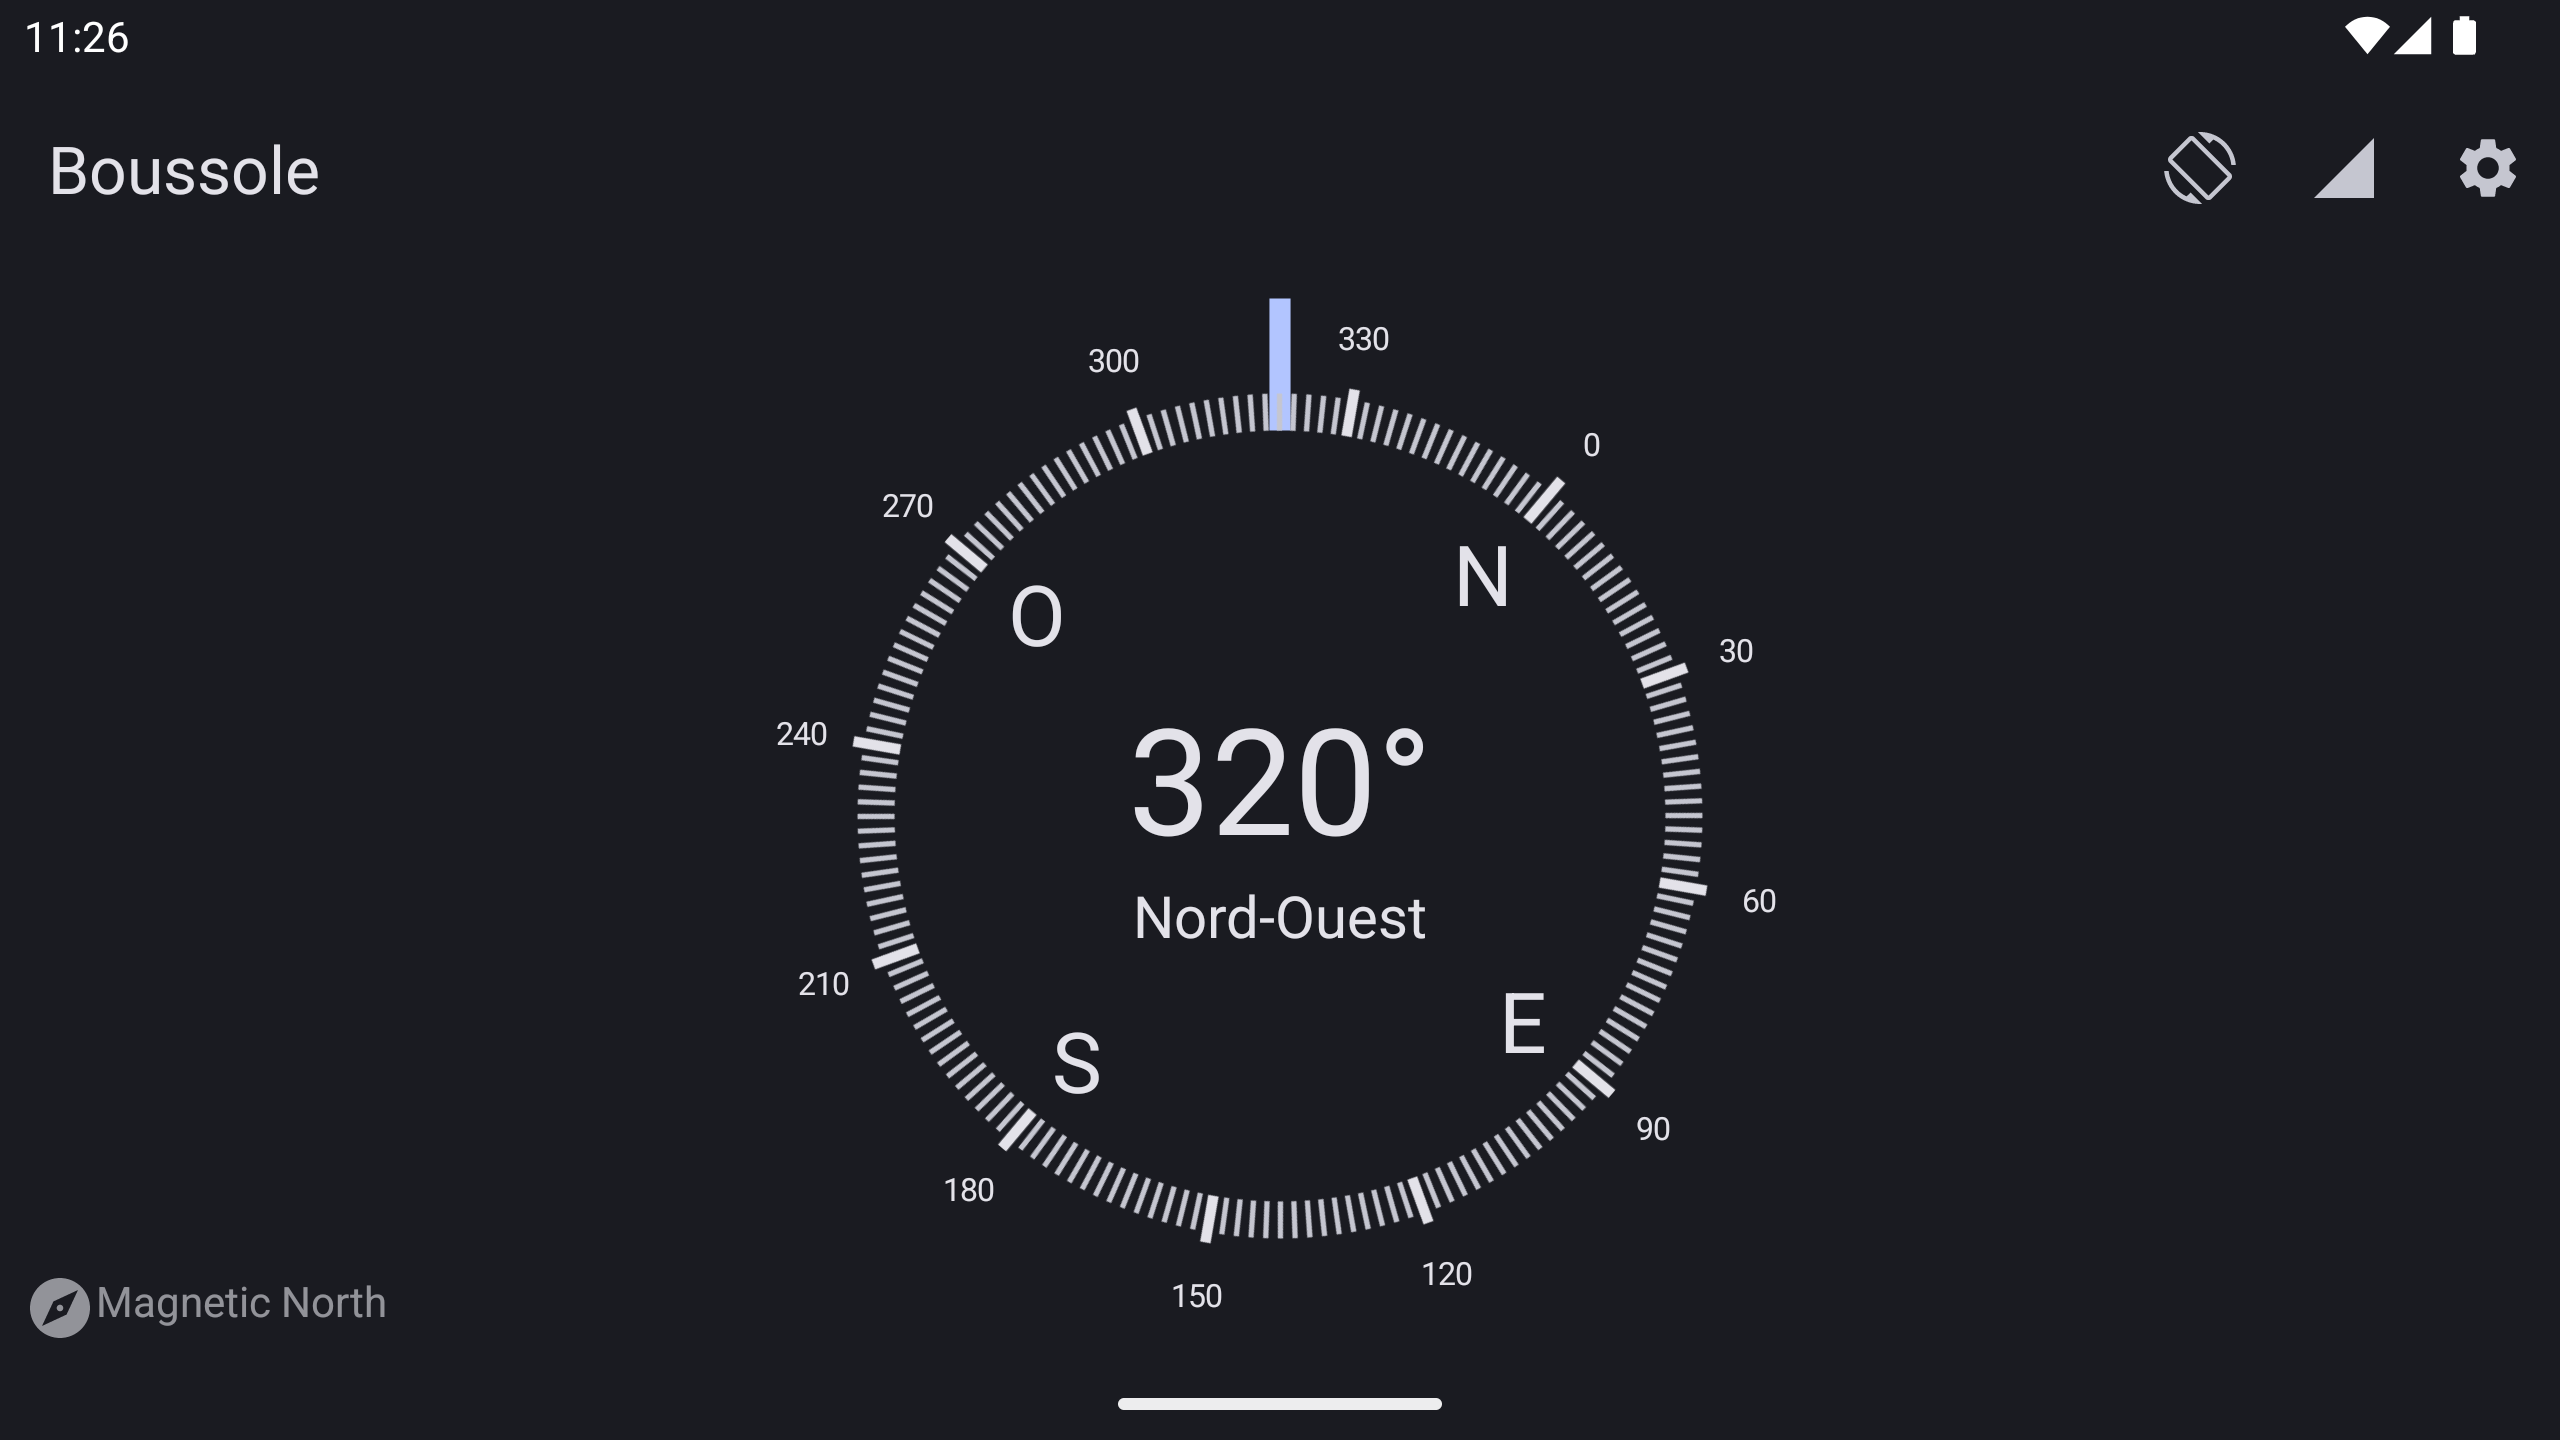
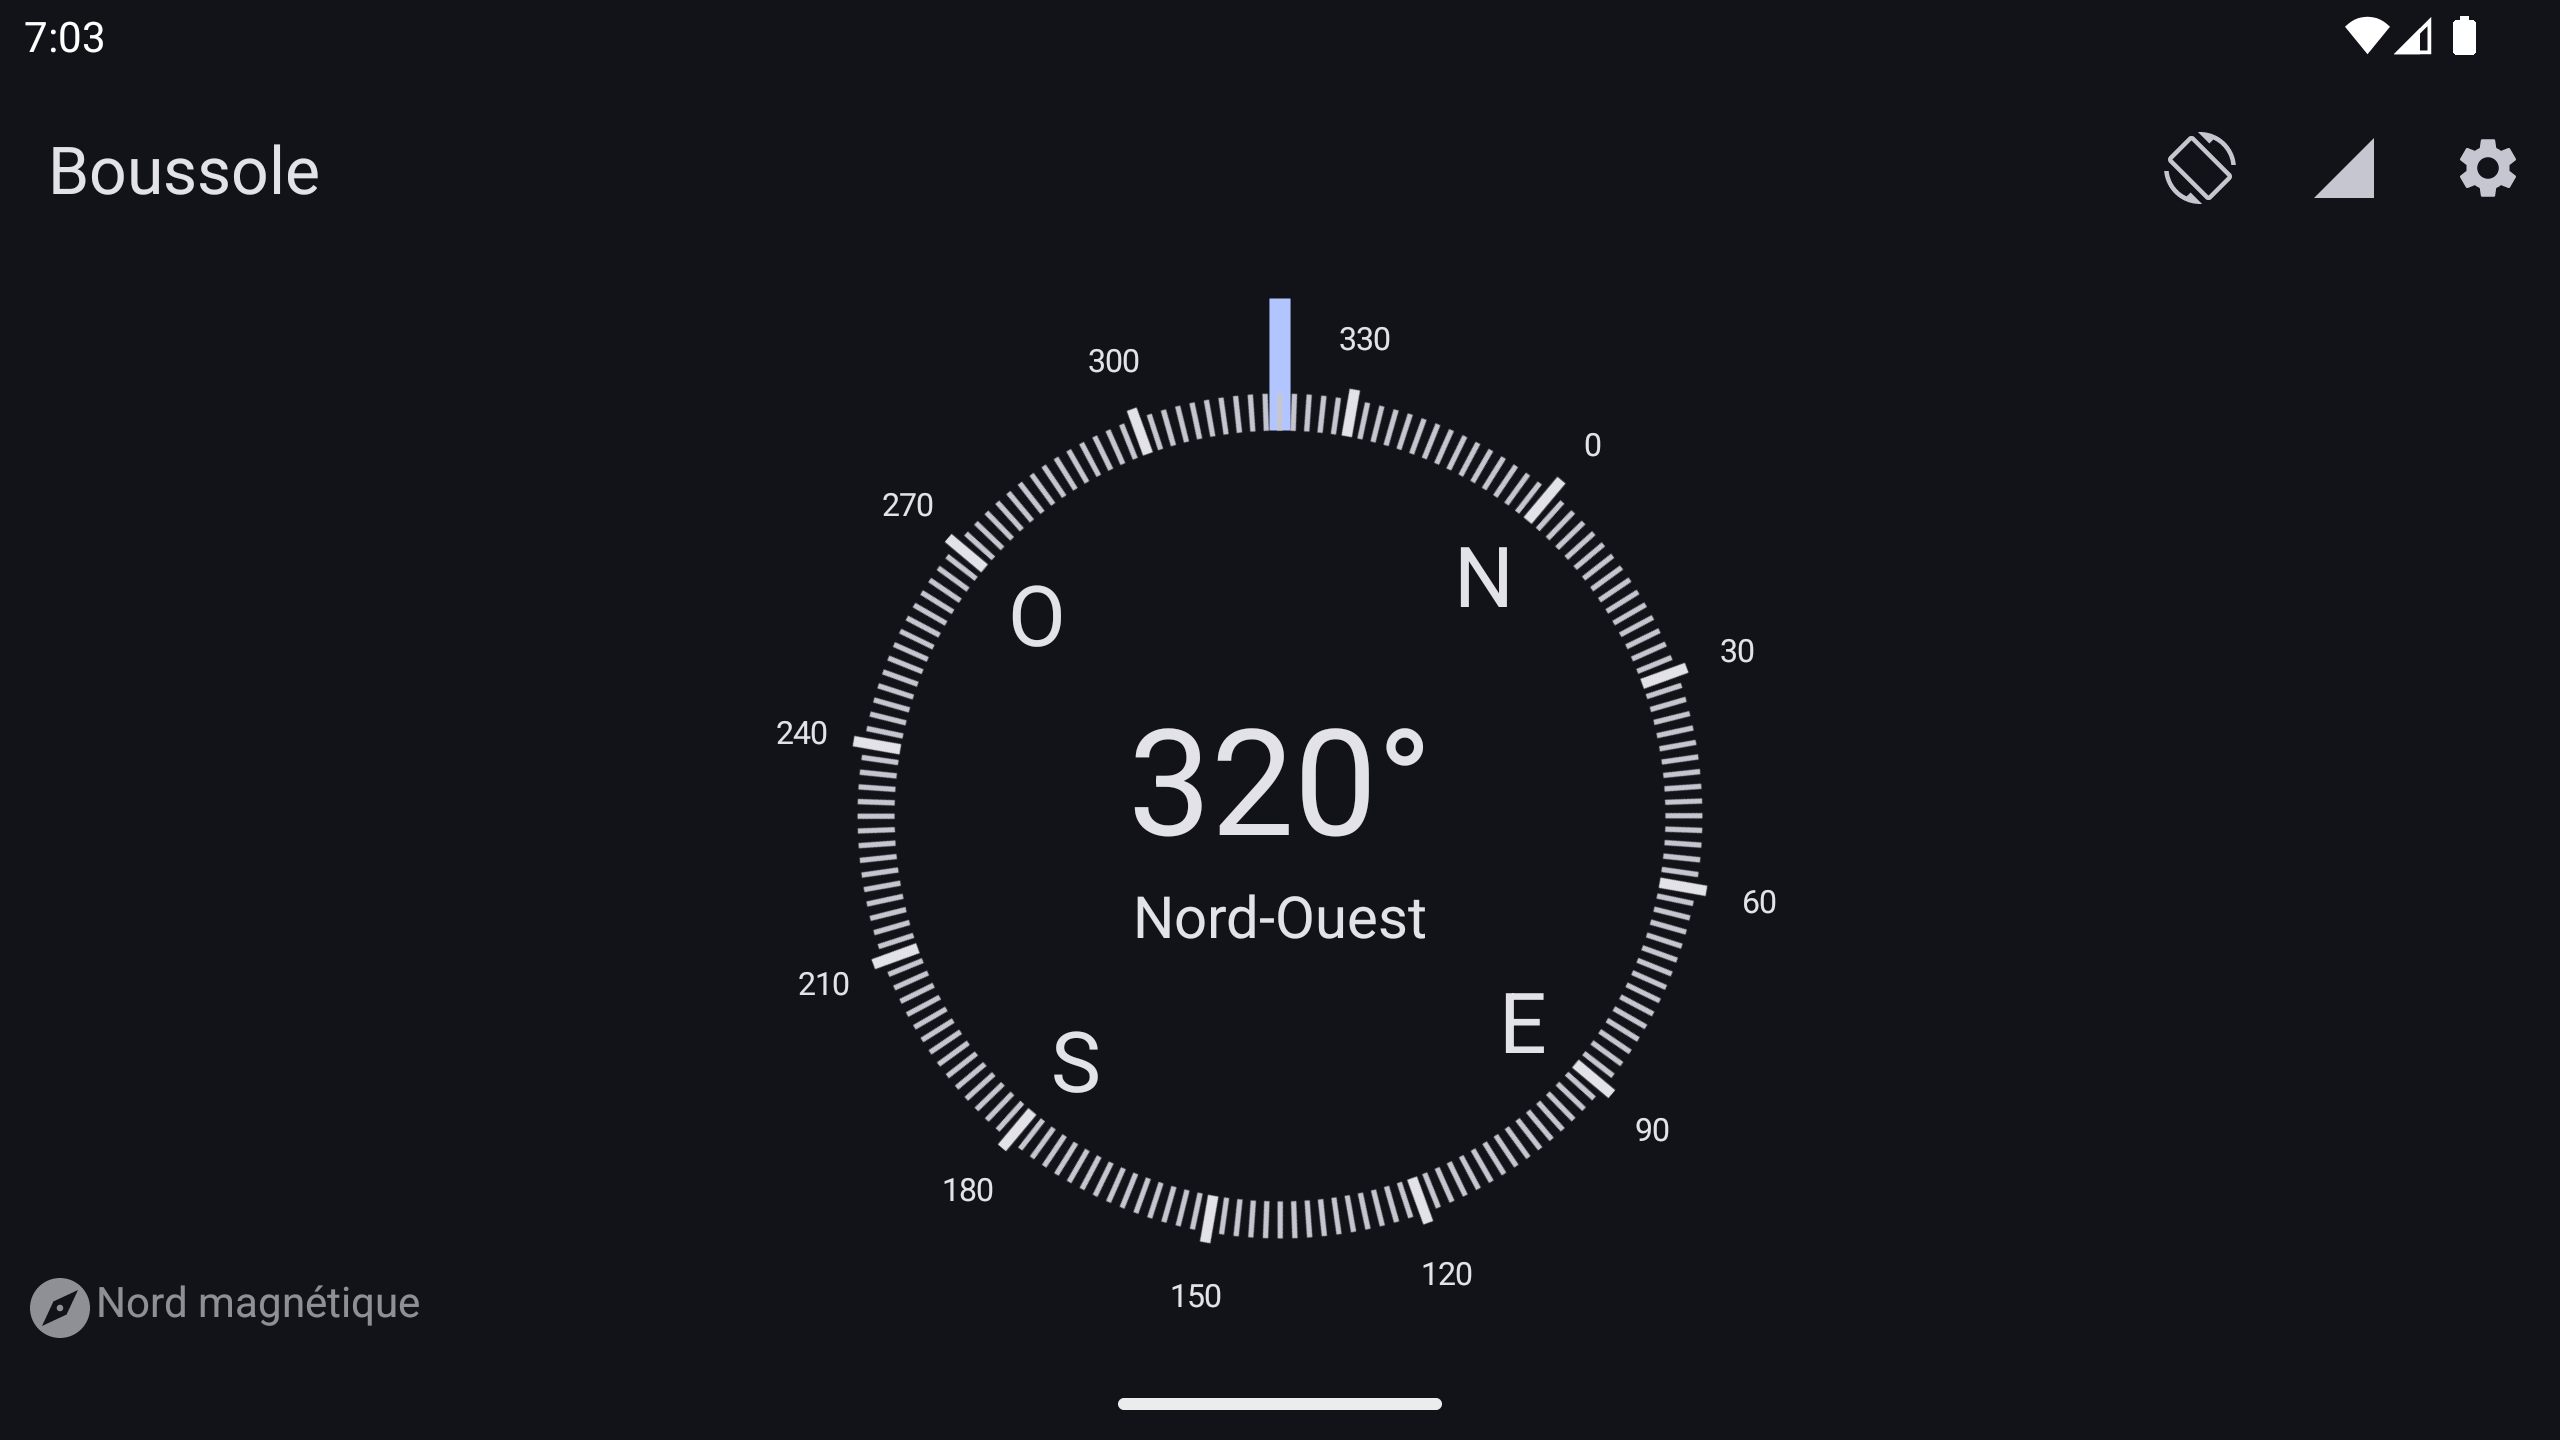
Improve French strings.xml

Changed region(s): [[0.0312, 0.875, 0.1562, 0.9375], [0.0, 0.0, 0.0312, 0.0312]]

diff --git a/README.md b/README.md
@@ -50,7 +50,7 @@ height="80">](https://github.com/Kr0oked/Compass/releases/latest)
 | es        | Spanish              | :white_check_mark: | :white_check_mark: | :white_check_mark: |
 | fa        | Persian              | :white_check_mark: | :white_check_mark: | :x:                |
 | fi        | Finnish              | :white_check_mark: | :white_check_mark: | :x:                |
-| fr        | French               | :white_check_mark: | :white_check_mark: | :x:                |
+| fr        | French               | :white_check_mark: | :white_check_mark: | :white_check_mark: |
 | hr        | Croatian             | :white_check_mark: | :white_check_mark: | :x:                |
 | hu        | Hungarian            | :white_check_mark: | :white_check_mark: | :x:                |
 | it        | Italian              | :white_check_mark: | :white_check_mark: | :x:                |
